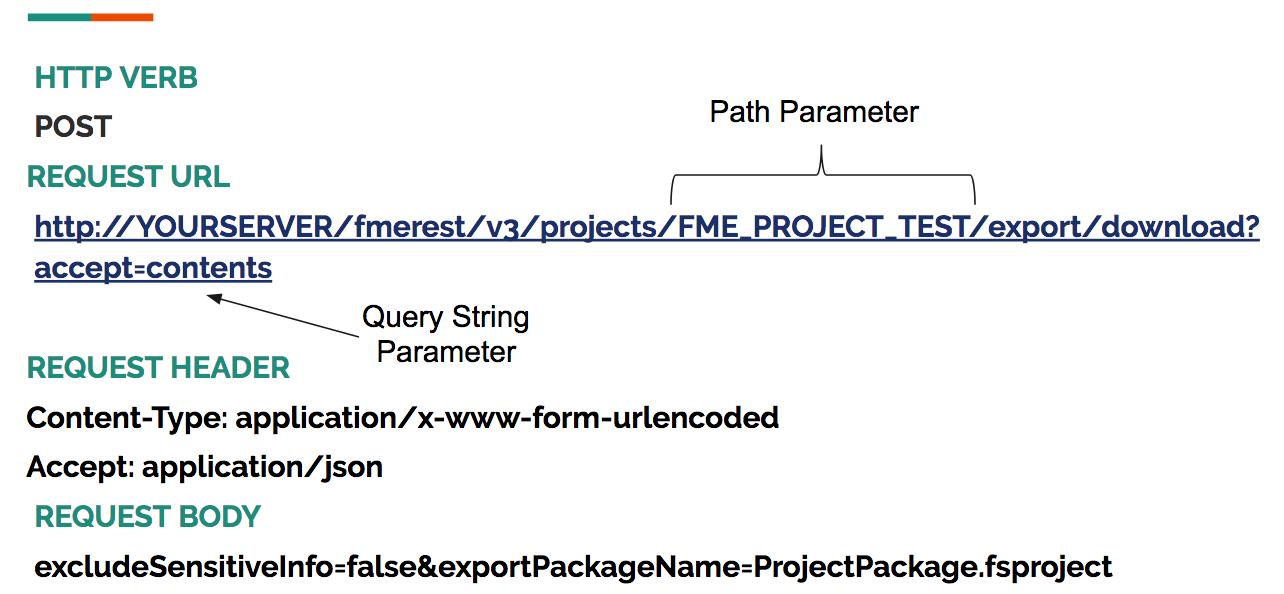
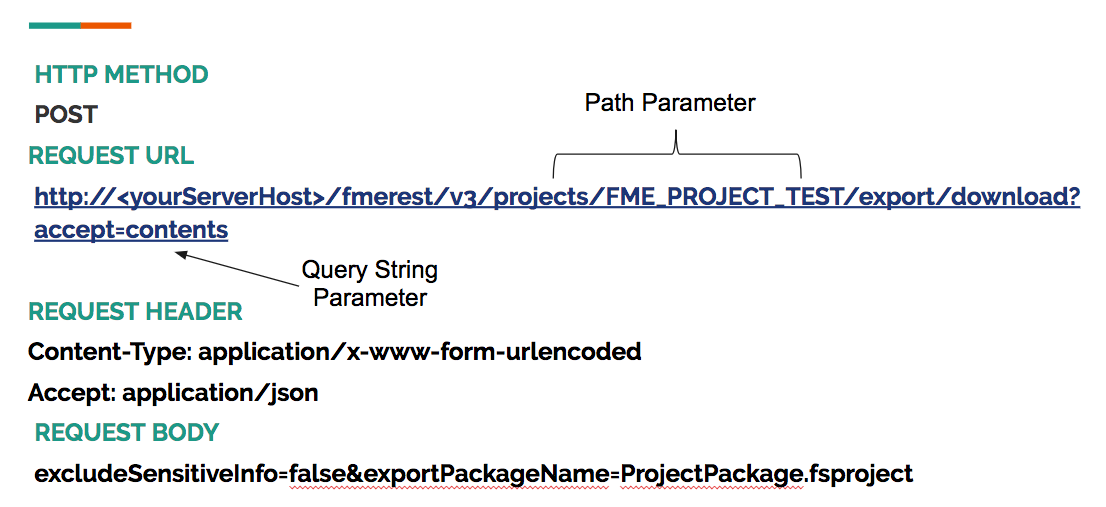
JenUpdates

diff --git a/FMESERVER_RESTAPI1Overview/1.2.WhatComponentsAreInARequest.md b/FMESERVER_RESTAPI1Overview/1.2.WhatComponentsAreInARequest.md
@@ -8,15 +8,15 @@ Before getting started it is important to know what an example request
 to the server looks like. For a full list of example calls please visit
 [https://docs.safe.com/fme/html/FME\_REST/apidoc/v3/\#](https://docs.safe.com/fme/html/FME_REST/apidoc/v3/#).
 
-**HTTP Verb:**
+#### HTTP Method:
 
-HTTP Verbs are essential to every call to the REST API. **HTTP Verbs
+HTTP Methods are essential to every call to the REST API. **HTTP Methods
 represent an action to the FME Server that you would like to complete.**
 
 <table>
 
 <tr>
-<th>HTTP Verb</th>
+<th>HTTP Method</th>
 <th>Action</th>
 <th>Uses in FME Server</th>
 </tr>
@@ -52,14 +52,14 @@ represent an action to the FME Server that you would like to complete.**
 ---
 
 
-**Request URL**
+#### Request URL
 
 **The Request URL is how you can make the call. It is composed of
 keywords that indicate to the server what you are trying to do.** In
 this tutorial, we will discuss the different requests you can make.
 Each request will have the same base URL:
 
-[http://YOURSERVER/fmerest/v3/](http://yourserver/fmerest/v3/)
+    http://<yourServerHost>/fmerest/v3/
 
 Parameters influence the response of the REST API by specifying a
 constraint on the call. There are two main parameters within the Request
@@ -89,7 +89,7 @@ offset before the limit and the request will produce the same result.
 A request URL may contain both path parameters and query string
 parameters.
 
-**Request Header**
+#### Request Header
 
 **REST Headers set the context for the type of call you are trying to
 place. They provide the required information for the call to take
@@ -99,7 +99,7 @@ place.** To begin there are three main headers we will use.
 authorization. Authorization ensures that the call being placed to the
 FME Server is made with permission. Authorization is given by a token.
 To receive a token visit,
-[http://*your.server.host*/fmetoken/](http://your.server.host/fmetoken/).
+        http://<yourServerHost>/fmetoken/
 To learn more about authorization visit,
 [http://docs.safe.com/fme/2017.1/html/FME\_Server\_Documentation/Content/AdminGuide/Configuring-Authentication-for-Security-Resources.htm](http://docs.safe.com/fme/2017.1/html/FME_Server_Documentation/Content/AdminGuide/Configuring-Authentication-for-Security-Resources.htm).
 
@@ -111,13 +111,13 @@ this tutorial the accept will be application/json.
 request body is in. During this tutorial, we will use JSON,
 x-www-form-urlencoded, and binary.
 
-**Request Body**
+#### Request Body
 
 The request body defines the parameters of what is being completed. It
 specifies the information to be modified, created, or deleted. We will
 provide examples later in the tutorial.
 
-**Example Request**
+#### Example Request
 
 The example below exports a project as a download and has a total of
 four parameters. In the request URL, there is a path parameter after
@@ -137,4 +137,4 @@ This is the same request in the HTTPCaller, this is a transformer used within FM
 
 ![](./Images/image1.2.5.HTTPCaller.png)
 
-*Image 1.2.5 The Same Call in the HTTPCaller.*  
+*Image 1.2.5 The same call in the HTTPCaller.*  

diff --git a/FMESERVER_RESTAPI1Overview/1.1.RESTAPI.md b/FMESERVER_RESTAPI1Overview/1.1.RESTAPI.md
@@ -7,15 +7,15 @@ API is a type of API that follows a REST architecture. There are six
 architectural constraints that all REST APIs follow:
 
 1.  Client-Server Architecture- this indicates that the client and the
-   server are separate from each other and must be able to function independently
+   server are separate from each other and must be able to function independently.
 
 2.  Uniform Interface- the structure of the call and response must be
-    uniform across all REST APIs
+    uniform across all REST APIs.
 
 3.  Stateless- This means the server will not store a history of
     previous calls made to the server. Each call will be considered  new.
 
-4.  Cacheable- all responses must be cacheable
+4.  Cacheable- all responses must be cacheable.
 
 5.  Layered System- It is possible to have many servers. The client
     -should not be able to tell if it is connected to the end server or an intermediary server.
@@ -39,21 +39,22 @@ The FME Knowledge Center has live demonstrations that display the vast
 capabilities of using the FME Server and the REST API.
 
 The example below demonstrates how to gather data from the FME Server
-using a web application. This application allows a user to request
+using a web application. It allows a user to request
 public transit information within an area specified by the user and you
 can find it at the link below
 [http://demos.fmeserver.com/datadistribution-webmap/index.html?map=arcgis](http://demos.fmeserver.com/datadistribution-webmap/index.html?map=arcgis).
-This web application allows the user to draw a polygon on an area. Then,
+
+
+
+This demonstration allows the user to draw a polygon on an area. Then,
 the user will set the parameters for the call, this includes which
 layers to download and the coordinate system. The user hits request data
-and will receive a zip file with the requested information. By the end
-of this section, you will understand how to enter this query using a
-REST Client and receive a response from the server.
+and will receive a zip file with the requested information.
 
 ![](./Images/image1.1.1WebApp.png)
 
 *Image 1.1.1 Image of a web mapping application from the FME Server
-Playground *
+Playground*
 
 The REST API acts like a middleman directly communicating with the FME
 Server and relaying the responses back to the client. You can see the
@@ -62,7 +63,7 @@ relationship between the FME Server and the API in the diagram below.
 ![](./Images/image1.1.2.client.png)
 
 *Image 1.1.2 Diagram of the relationship between the FME Server and
-Client *
+Client*
 
 The REST API reads the call which is composed of the HTTP Verb, URL, and
 the body of the call. The FME Server will respond with JSON.

diff --git a/FMESERVER_RESTAPI2GettingStarted/2.0.RESTAPIHomepage.md b/FMESERVER_RESTAPI2GettingStarted/2.0.RESTAPIHomepage.md
@@ -3,7 +3,7 @@
 Now that you know the basic information on using the REST API, we can
 explore how to use it. The first step is to visit your homepage for the
 REST API. To find this, go to
-[http://YOURSERVER/fmerest/](http://yourserver/fmerest/)**.** In you are doing this course on the training computer go to http://localhost/fmerest You may also access this same page through your FMEServer. Simply, go to your FMEServer homepage. Locate the help button and click on the REST API button.
+[http://<yourServerHost>/fmerest/](http://<yourServerHost>/fmerest/)**.** In you are doing this course on the training computer go to http://localhost/fmerest You may also access this same page through your FMEServer. Simply, go to your FMEServer homepage. Locate the help button and click on the REST API button.
 This page provides helpful resources when first learning the REST API.
 This includes sample calls you can make to the server. On the main
 toolbar click on the API Link.
@@ -40,6 +40,6 @@ software we will use it in later examples. It is important to note that
 token acts as a verification you have permission to gain access to the
 server. It is a security feature and you can gain access to tokens on
 your FME Server Rest API page
-([http://YOURSERVER/fmerest/](http://yourserver/fmerest/)).
+([http://<yourServerHost>/fmerest/](http://<yourServerHost>/fmerest/)).
 After you have made a call to the FME Server you will receive a response
 from the FME Server.

diff --git a/FMESERVER_RESTAPI1Overview/1.3.AuthorizationAndAuthentication.md b/FMESERVER_RESTAPI1Overview/1.3.AuthorizationAndAuthentication.md
@@ -17,10 +17,13 @@ the tokens.
 
 There are many ways to get a token to use for authentication.
 
-**1) Through http://localhost/fmetoken/**
+**1) Through the FME token page**
 
-To generate a token visit
-http://your.server.host/fmetoken/ or http://localhost/fmetoken/ if you are using a training computer.
+To generate a token visit:
+
+          http://<yourServerHost>/fmetoken/
+or http://localhost/fmetoken/ if you are using a training computer.
+
 Once you access your server, you will be asked to verify your username
 and your password and be asked to specify when you would like your token
 to expire. The maximum amount of time you can issue a token for is two
@@ -41,7 +44,7 @@ On the FME Server, click on the user icon. Then click Manage Token.
 
 ![](./Images/image1.3.3.ManageToken.png)
 
-*Image 1.3.3 How to find your Token through the Server Interface*
+*Image 1.3.3 How to find your token through the Server Interface*
 
 **3) Through the REST API Homepage, http://localhost/fmerest/apidoc/v3/**
 
@@ -70,7 +73,7 @@ know the pros and cons of each method.
 of the call. This is a quick and easy way to use a call that requires a
 token.
 
-[http://YOURSERVER/fmerest/v3/info?fmetoken=](http://sienna/fmerest/v3/info?fmetoken=e411779b3050ad777bab6f45f07d2ff5d02fbeb3)YOURTOKEN
+    http://<yourServerHost>/fmerest/v3/info?fmetoken=<yourToken>
 
 However, this is not recommended because the token will be visible in
 the URL.

diff --git a/FMESERVER_RESTAPI3HTTPCaller/3.2.CallsWithoutAuthorization.md b/FMESERVER_RESTAPI3HTTPCaller/3.2.CallsWithoutAuthorization.md
@@ -38,7 +38,7 @@ This shows how to create an authorized call in the FME Server REST API. Authoriz
 **1) Create the Call Below**
 
 
-    GET http://YOURSERVER/fmerest/v3/info
+    GET http://<yourServerHost>/fmerest/v3/info
 
 
 *This call should require a token to be used. This next part of the
@@ -72,7 +72,7 @@ paste the following URL into Postman. Replace "YOURTOKEN" with the token
 you have received from the server.
 
 
-    GET http://YOURSERVER/fmerest/v3/info?fmetoken=YOURTOKEN
+    GET http://<yourServerHost>/fmerest/v3/info?fmetoken=YOURTOKEN
 
 
 You should receive the 200 response code from the FME Server. Please
@@ -83,7 +83,7 @@ The preferred method is to use the Authorization Header. To find where
 to place the Authorization header, look underneath the URL find the
 Headers section. In here, under key write Authorization. Then set the
 value to Fmetoken token=your token. The URL should be
-[http://YOURSERVER/fmerest/v3/info](http://sienna/fmerest/v3/info?fmetoken=e411779b3050ad777bab6f45f07d2ff5d02fbeb3).
+[http://<yourServerHost>/fmerest/v3/info](http://sienna/fmerest/v3/info?fmetoken=e411779b3050ad777bab6f45f07d2ff5d02fbeb3).
 Now try running the call.
 
 ![](./Images/image3.2.3.tokenPostman.png)

diff --git a/FMESERVER_RESTAPI3HTTPCaller/3.1.RESTClient.md b/FMESERVER_RESTAPI3HTTPCaller/3.1.RESTClient.md
@@ -77,7 +77,7 @@ call, you can create a new folder for training purposes.
 **5) Copy the URL into the toolbar.**
 
 Copy the URL into the toolbar and hit send! Notice, we are using the GET
-HTTP Verb for this call. To understand what this verb means please
+HTTP Method for this call. To understand what this method means please
 review the table above. **Link to Table.**  
 
     GET http://localhost/fmerest/v3/healthcheck?textResponse=false

diff --git a/FMESERVER_RESTAPI1Overview/1.0.ChapterOverview.md b/FMESERVER_RESTAPI1Overview/1.0.ChapterOverview.md
@@ -2,4 +2,4 @@
 
 
 The REST API is a powerful tool that can be used to interact with the
-FME Server. This section explains what it is and how to use it.
+FME Server. This section explains what it is and how to use it. By the end of this section you should be able to understand what a REST API is and how you may use it in the future. 

diff --git a/FMESERVER_RESTAPI5WebServices/5.1.Exercise.md b/FMESERVER_RESTAPI5WebServices/5.1.Exercise.md
@@ -60,7 +60,7 @@ URL in this example is a direct URL.
 
 5) Copy the full URL into Postman. This call will not require any
     header or body as all the information needed is in the URL. Set
-    the HTTP Verb to GET.
+    the HTTP Method to GET.
 
 6)   Click send!
 
